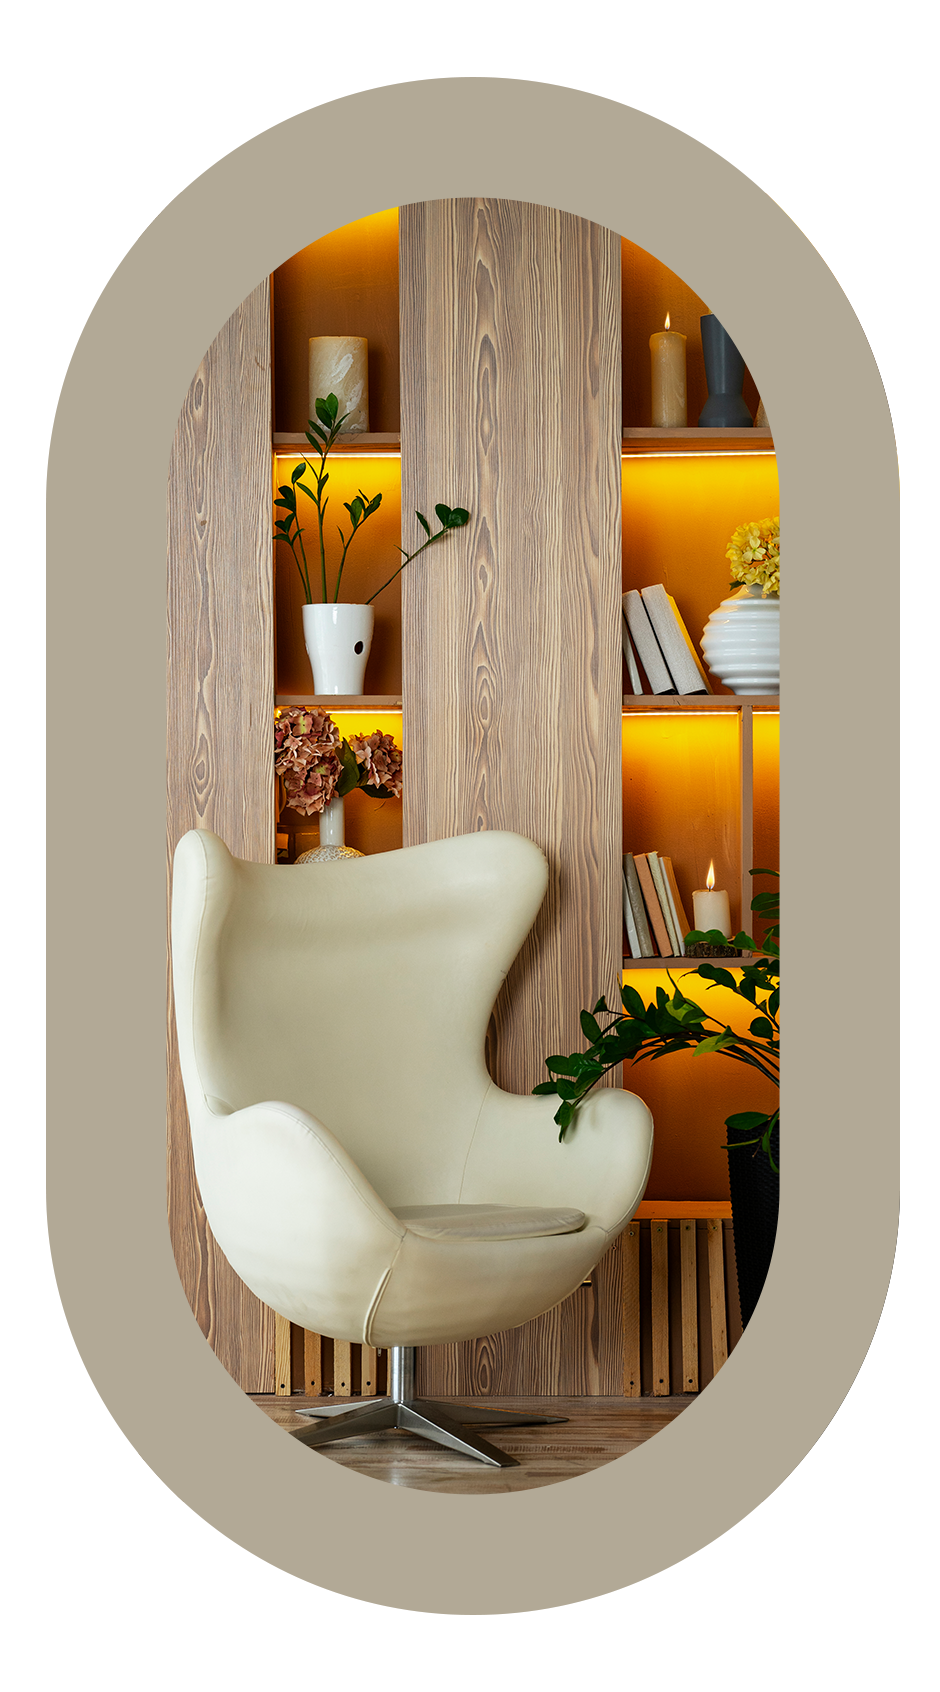
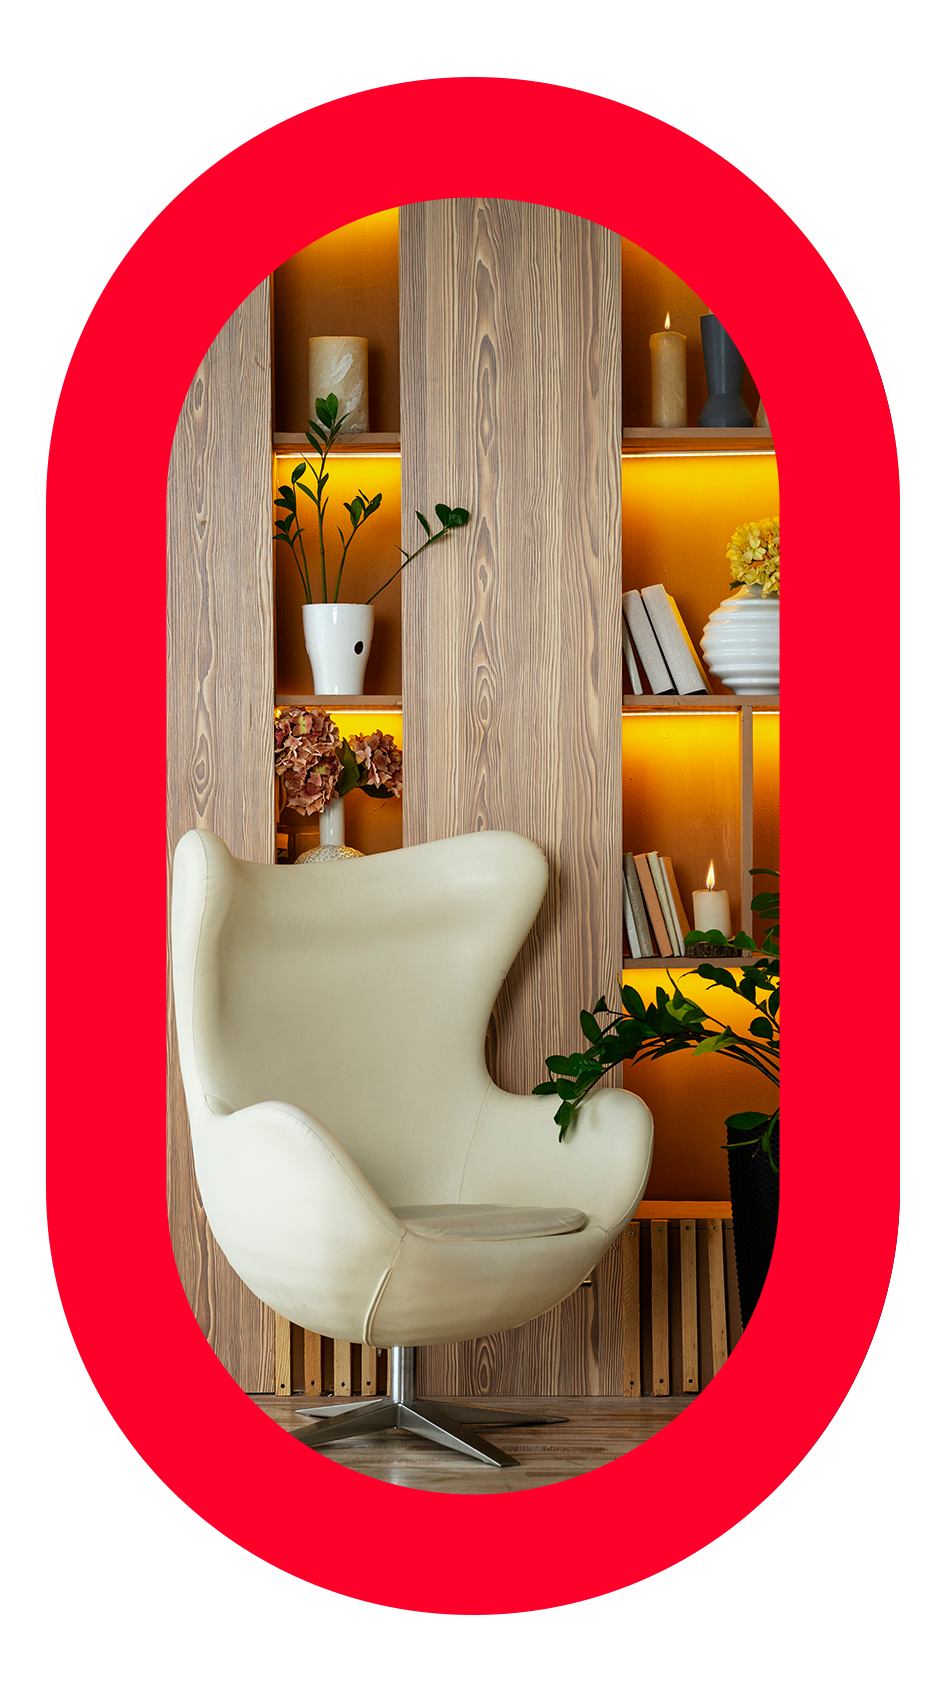
update

Changed region(s): [[0.0309, 0.0307, 0.9564, 0.9527]]

diff --git a/MirthInteriors/Mirth/templates/index.html b/MirthInteriors/Mirth/templates/index.html
@@ -34,10 +34,10 @@
 	================================================== -->
     <link
       rel="shortcut icon"
-      href="{% static 'favicon.ico' %}"
+      href="{% static 'Mirth-Logo.png' %}"
       type="image/x-icon"
     />
-    <link rel="icon" href="{% static 'favicon.ico' %}" type="image/x-icon" />
+    <link rel="icon" href="{% static 'Mirth-Logo.png' %}" type="image/x-icon" />
   </head>
 
   <body id="top">
@@ -54,23 +54,26 @@
             <a class="smoothscroll" href="#home" title="home">Home</a>
           </li>
           <li><a class="smoothscroll" href="#about" title="about">About</a></li>
-          <li>
+          <!-- <li>
             <a class="smoothscroll" href="#pricing" title="pricing">Pricing</a>
+          </li> -->
+          <li>
+            <a class="smoothscroll" href="#Works" title="works">Our Works</a>
           </li>
           <li>
             <a class="smoothscroll" href="#testimonials" title="testimonials"
-              >Testimonials</a
+              >Reviews</a
             >
           </li>
-          <li>
+          <!-- <li>
             <a class="smoothscroll" href="#download" title="download"
               >Download</a
             >
-          </li>
+          </li> -->
         </ul>
 
         <a href="#" title="sign-up" class="button button-primary cta"
-          >Sign Up</a
+          >Contact Us</a
         >
       </nav>
 
@@ -91,27 +94,27 @@
       <div class="home-content">
         <div class="row contents">
           <div class="home-content-left">
-            <h3 data-aos="fade-up">Welcome to Dazzle</h3>
+            <h3 data-aos="fade-up">Welcome to Mirth Interiors</h3>
 
             <h1 data-aos="fade-up">
-              Creative Landing <br />
-              Page to Showcase <br />
-              Your Amazing App.
+              Creative Spaces <br />
+              Exceptional Designs <br />
+              Breathtaking Beauty.
             </h1>
 
             <div class="buttons" data-aos="fade-up">
               <a href="#download" class="smoothscroll button stroke">
                 <span class="icon-circle-down" aria-hidden="true"></span>
-                Download App
+                Contact Us
               </a>
-              <a
+              <!-- <a
                 href="http://player.vimeo.com/video/14592941?title=0&amp;byline=0&amp;portrait=0&amp;color=39b54a"
                 data-lity
                 class="button stroke"
               >
                 <span class="icon-play" aria-hidden="true"></span>
                 Watch Video
-              </a>
+              </a> -->
             </div>
           </div>
 
@@ -156,15 +159,14 @@
     <section id="about">
       <div class="row about-intro">
         <div class="col-four">
-          <h1 class="intro-header" data-aos="fade-up">About Our App</h1>
+          <h1 class="intro-header" data-aos="fade-up">About Mirth Interiors</h1>
         </div>
         <div class="col-eight">
           <p class="lead" data-aos="fade-up">
-            Excepteur enim magna veniam labore veniam sint. Ex aliqua esse
-            proident ullamco voluptate. Nisi nisi nisi aliqua eiusmod dolor
-            dolor proident deserunt occaecat elit Lorem reprehenderit. Id culpa
-            veniam ex aliqua magna elit pariatur do nulla. Excepteur enim magna
-            veniam labore veniam sint.
+            Interior Design Expert in Nigeria Transforming spaces with
+            exceptional interior design for commercial, residential, and
+            corporate settings. Specializing in bespoke furniture crafted to
+            perfection, with reliable nationwide delivery.
           </p>
         </div>
       </div>
@@ -175,7 +177,7 @@
             <span class="icon"><i class="icon-window"></i></span>
 
             <div class="service-content">
-              <h3>Fully Resposive</h3>
+              <h3>Design</h3>
 
               <p>
                 Sed ut perspiciatis unde omnis iste natus error sit voluptatem
@@ -192,7 +194,7 @@
             <span class="icon"><i class="icon-image"></i></span>
 
             <div class="service-content">
-              <h3>Retina Ready</h3>
+              <h3>Design</h3>
 
               <p>
                 Sed ut perspiciatis unde omnis iste natus error sit voluptatem
@@ -209,7 +211,7 @@
             <span class="icon"><i class="icon-paint-brush"></i></span>
 
             <div class="service-content">
-              <h3>Stylish Design</h3>
+              <h3>Design</h3>
 
               <p>
                 Sed ut perspiciatis unde omnis iste natus error sit voluptatem
@@ -222,11 +224,11 @@
           </div>
           <!-- /bgrid -->
 
-          <div class="bgrid feature" data-aos="fade-up">
+          <!-- <div class="bgrid feature" data-aos="fade-up">
             <span class="icon"><i class="icon-file"></i></span>
 
             <div class="service-content">
-              <h3>Clean Code</h3>
+              <h3>Design</h3>
 
               <p>
                 Sed ut perspiciatis unde omnis iste natus error sit voluptatem
@@ -236,14 +238,14 @@
                 voluptas sit aspernatur aut odit aut fugit.
               </p>
             </div>
-          </div>
+          </div> -->
           <!-- /bgrid -->
 
-          <div class="bgrid feature" data-aos="fade-up">
+          <!-- <div class="bgrid feature" data-aos="fade-up">
             <span class="icon"><i class="icon-sliders"></i></span>
 
             <div class="service-content">
-              <h3>Easy To Customize</h3>
+              <h3>Design</h3>
 
               <p>
                 Sed ut perspiciatis unde omnis iste natus error sit voluptatem
@@ -253,10 +255,10 @@
                 voluptas sit aspernatur aut odit aut fugit.
               </p>
             </div>
-          </div>
+          </div> -->
           <!-- /bgrid -->
 
-          <div class="bgrid feature" data-aos="fade-up">
+          <!-- <div class="bgrid feature" data-aos="fade-up">
             <span class="icon"><i class="icon-gift"></i></span>
 
             <div class="service-content">
@@ -270,17 +272,17 @@
                 voluptas sit aspernatur aut odit aut fugit.
               </p>
             </div>
-          </div>
+          </div> -->
           <!-- /bgrid -->
         </div>
         <!-- end features-list -->
       </div>
       <!-- end about-features -->
 
-      <div class="row about-how">
-        <h1 class="intro-header" data-aos="fade-up">How The App Works?</h1>
+      <div class="row about-how" id="Works">
+        <h1 class="intro-header" data-aos="fade-up">Our Works</h1>
 
-        <div class="about-how-content" data-aos="fade-up">
+        <!-- <div class="about-how-content" data-aos="fade-up">
           <div class="about-how-steps block-1-2 block-tab-full group">
             <div class="bgrid step" data-item="1">
               <h3>Sign-Up</h3>
@@ -322,7 +324,7 @@
               </p>
             </div>
           </div>
-        </div>
+        </div> -->
         <!-- end about-how-content -->
       </div>
       <!-- end about-how -->
@@ -346,7 +348,7 @@
 
     <!-- pricing
     ================================================== -->
-    <section id="pricing">
+    <!-- <section id="pricing">
       <div class="row pricing-content">
         <div class="col-four pricing-intro">
           <h1 class="intro-header" data-aos="fade-up">Our Pricing Options</h1>
@@ -381,10 +383,10 @@
                   <a class="button button-primary large" href="">Get Started</a>
                 </div>
               </div>
-            </div>
-            <!-- end plan-wrap -->
+            </div> -->
+    <!-- end plan-wrap -->
 
-            <div class="col-six plan-wrap">
+    <!-- <div class="col-six plan-wrap">
               <div class="plan-block primary" data-aos="fade-up">
                 <div class="plan-top-part">
                   <h3 class="plan-block-title">Pro Plan</h3>
@@ -403,14 +405,14 @@
                   <a class="button button-primary large" href="">Get Started</a>
                 </div>
               </div>
-            </div>
-            <!-- end plan-wrap -->
-          </div>
-        </div>
-        <!-- end pricing-table -->
-      </div>
-      <!-- end pricing-content -->
-    </section>
+            </div> -->
+    <!-- end plan-wrap -->
+    <!-- </div>
+        </div> -->
+    <!-- end pricing-table -->
+    <!-- </div> -->
+    <!-- end pricing-content -->
+    <!-- </section> -->
     <!-- end pricing -->
 
     <!-- Testimonials Section
@@ -419,7 +421,7 @@
       <div class="row">
         <div class="col-twelve">
           <h1 class="intro-header" data-aos="fade-up">
-            What They Say About Our App.
+            What our customers say.
           </h1>
         </div>
       </div>
@@ -479,7 +481,7 @@
 
     <!-- download
     ================================================== -->
-    <section id="download">
+    <!-- <section id="download">
       <div class="row">
         <div class="col-full">
           <h1 class="intro-header" data-aos="fade-up">
@@ -508,7 +510,7 @@
           </ul>
         </div>
       </div>
-    </section>
+    </section> -->
     <!-- end download -->
 
     <!-- footer
@@ -611,13 +613,13 @@
       <div class="footer-bottom">
         <div class="row">
           <div class="col-twelve">
-            <div class="copyright">
+            <!-- <div class="copyright">
               <span>© Copyright Dazzle 2018.</span>
               <span
                 >Design by
                 <a href="http://www.styleshout.com/">styleshout</a></span
               >
-            </div>
+            </div> -->
 
             <div id="go-top">
               <a class="smoothscroll" title="Back to Top" href="#top"

diff --git a/MirthInteriors/Mirth/static/css/main.css b/MirthInteriors/Mirth/static/css/main.css
@@ -780,8 +780,8 @@ button.button-primary,
 input[type="submit"].button-primary,
 input[type="reset"].button-primary,
 input[type="button"].button-primary {
-  background-color: #39b54a;
-  border-color: #39b54a;
+  background-color: #ff002a;
+  border-color: #ff002a;
   color: #FFFFFF;
 }
 
@@ -795,8 +795,8 @@ button.button-primary:focus,
 input[type="submit"].button-primary:focus,
 input[type="reset"].button-primary:focus,
 input[type="button"].button-primary:focus {
-  background: #309a3f;
-  border-color: #309a3f;
+  background: #b70220;
+  border-color: #b70220;
 }
 
 button.full-width,
@@ -1084,7 +1084,7 @@ h1.intro-header::before {
   content: "";
   height: 2px;
   width: 70px;
-  background-color: #39b54a;
+  background-color: #ff002a;
   position: absolute;
   left: 0;
   bottom: 0;
@@ -1158,10 +1158,10 @@ h1.intro-header::before {
   padding: 0;
   outline: 0;
   border: none;
-  width: 97px;
-  height: 22px;
+  width: 194px;
+  height: 44px;
   background: url("../images/logo.png") no-repeat center;
-  background-size: 97px 22px;
+  background-size: 194px 44px;
   font: 0/0 a;
   text-shadow: none;
   color: transparent;
@@ -1858,7 +1858,7 @@ html[data-useragent*='MSIE 10.0'] .home-scrolldown,
 }
 
 .about-features .feature .icon i {
-  color: #39b54a;
+  color: #ff002a;
   font-size: 4.8rem;
 }
 
@@ -2421,7 +2421,7 @@ html[data-useragent*='MSIE 10.0'] .home-scrolldown,
 
 #testimonial-slider .owl-dots .owl-dot.active span,
 #testimonial-slider .owl-dots .owl-dot:hover span {
-  background-color: #39b54a;
+  background-color: #fe0029;
 }
 
 
@@ -2674,8 +2674,8 @@ footer ul a:visited {
   top: 0;
   right: 0;
   color: #ffffff;
-  background: #39b54a;
-  border-color: #39b54a;
+  background: #fe0029;
+  border-color: #fe0029;
   border-radius: 0 .5rem .5rem 0;
   padding: 0 15px;
 }

diff --git a/MirthInteriors/MirthInteriors/settings.py b/MirthInteriors/MirthInteriors/settings.py
@@ -13,8 +13,8 @@ https://docs.djangoproject.com/en/4.2/ref/settings/
 import os
 from pathlib import Path
 
-import django_heroku
-import dj_database_url
+# import django_heroku
+# import dj_database_url
 
 # Build paths inside the project like this: BASE_DIR / 'subdir'.
 BASE_DIR = Path(__file__).resolve().parent.parent
@@ -27,9 +27,9 @@ BASE_DIR = Path(__file__).resolve().parent.parent
 SECRET_KEY = 'django-insecure-ywqloe5l$z^nr4!ct=p_#jz@wch8un-$3t^26cv#%n(qgz1e0-'
 
 # SECURITY WARNING: don't run with debug turned on in production!
-DEBUG = False
+DEBUG = True
 
-ALLOWED_HOSTS = ['*']
+ALLOWED_HOSTS = []
 
 
 # Application definition
@@ -124,7 +124,7 @@ USE_TZ = True
 
 STATIC_URL = 'static/'
 STATIC_ROOT = os.path.join(BASE_DIR, 'staticfiles')
-django_heroku.settings(locals())
+# django_heroku.settings(locals())
 
 # Default primary key field type
 # https://docs.djangoproject.com/en/4.2/ref/settings/#default-auto-field
